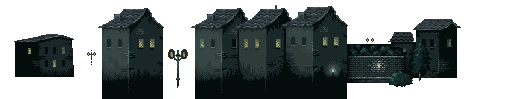
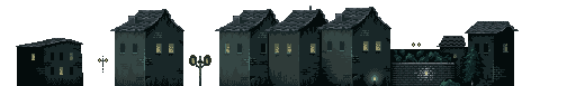
scene load from .ini

diff --git a/sources/core/gameObject.c b/sources/core/gameObject.c
@@ -22,7 +22,7 @@ const compCtor_t compCtors[] = {
     {"[graphics]\n", &Graphics}
 };
 
-gameObject_t *GameObject(core_t *core, char *config)
+gameObject_t *GameObject(core_t *core, char *name, char *config)
 {
     gameObject_t *gO = malloc(sizeof(gameObject_t));
     FILE *fp = fopen(config, "r");
@@ -43,7 +43,43 @@ gameObject_t *GameObject(core_t *core, char *config)
         for (int i = 0; i < 1; ++i)
             if (strcmp(line, compCtors[i].type) == 0)
                 gO->comps->addComp(gO->comps, compCtors[i].createComp(core, fp));
+    gO->next = NULL;
+    gO->name = strdup(name);
     return gO;
+}
+
+gameObject_t *addGameObject(core_t *core, gameObject_t *entities, char *name, char *config)
+{
+    gameObject_t *newGameObject = GameObject(core, name, config);
+    gameObject_t *tmp = entities;
+
+    if (entities == NULL)
+        return newGameObject;
+    while (tmp->next != NULL)
+        tmp = tmp->next;
+    tmp->next = newGameObject;
+    return entities;
+}
+
+gameObject_t *GameObjectsFromConfig(core_t *core, char *config)
+{
+    FILE *fp = fopen(config, "r");
+    char *line = NULL;
+    size_t len = 0;
+    tuple_t *tuple = NULL;
+    gameObject_t *entities = NULL;
+
+    if (fp == NULL) {
+        write(2, "Can't open file\n", 16);
+        return NULL;
+    }
+    while (getline(&line, &len, fp) != -1)
+        if (strcmp(line, "[entities]\n") != 0) {
+            tuple = Tuple(line);
+            entities = addGameObject(core, entities, tuple->key, tuple->value);
+            Dtr_Tuple(tuple);
+        }
+    return entities;
 }
 
 void Dtr_GameObject(gameObject_t *gO)

diff --git a/sources/scenes/intro.c b/sources/scenes/intro.c
@@ -23,15 +23,16 @@ static int update(UNUSED core_t *core)
 
 static int display(UNUSED core_t *core)
 {
-    sfRenderWindow_drawSprite(
-        core->window->window,
-        toGraphics(
-            core->curr->entities->comps->getComp(
-                core->curr->entities->comps,
-                GRAPHICS)
-            )->sprite,
-        NULL
-    );
+    gameObject_t *tmp = core->curr->entities;
+
+    while (tmp != NULL) {
+        sfRenderWindow_drawSprite(
+            core->window->window,
+            toGraphics(tmp->comps->getComp(tmp->comps, GRAPHICS))->sprite,
+            NULL
+        );
+        tmp = tmp->next;
+    }
     return 0;
 }
 
@@ -48,7 +49,7 @@ scene_t *Intro(core_t *core)
     intro->event = &event;
     intro->update = &update;
     intro->display = &display;
-    intro->entities = core->entities->getEntity(core->entities, "contents/entities/background.ini")->gameObject;
+    intro->entities = GameObjectsFromConfig(core, "contents/scenes/intro.ini");
 
     return intro;
 }

diff --git a/includes/datastructure.h b/includes/datastructure.h
@@ -16,25 +16,6 @@
     #define MICRO .microseconds / 1000000.f;
     #define UNUSED __attribute__((unused))
 
-    /* ENTITIES DICT */
-
-    struct gameObject_s;
-    struct core_s;
-
-    typedef struct entity_s {
-        char *name;
-        struct gameObject_s *gameObject;
-
-        struct entity_s *next;
-    } entity_t;
-
-    typedef struct entitiesDict_s {
-        entity_t *entities;
-
-        entity_t *(*getEntity)(struct entitiesDict_s *, char *);
-        entity_t *(*addEntity)(struct core_s *, struct entitiesDict_s *, char *);
-    } entitiesDict_t;
-
     /* SPRITE DICT */
 
     typedef struct entry_s {
@@ -102,6 +83,7 @@
     } timed_t;
 
     typedef struct gameObject_s {
+        char *name;
         compDict_t *comps;
 
         int (*event)(struct core_s *);
@@ -124,7 +106,6 @@
         window_t *window;
         timed_t *time;
         spriteDict_t *sprites;
-        entitiesDict_t *entities;
         scene_t *curr;
         scene_t *tmp;
 

diff --git a/includes/prototypes.h b/includes/prototypes.h
@@ -22,7 +22,8 @@
     timed_t *Timed(void);
     void Dtr_Timed(timed_t *);
 
-    gameObject_t *GameObject(core_t *, char *);
+    gameObject_t *GameObject(core_t *, char *, char *);
+    gameObject_t *GameObjectsFromConfig(core_t *, char *);
     void Dtr_GameObject(gameObject_t *);
 
 
@@ -40,9 +41,6 @@
 
     compDict_t *CompDict(void);
     void Dtr_CompDict(compDict_t *);
-
-    entitiesDict_t *EntitiesDict(void);
-    void Dtr_EntitiesDict(entitiesDict_t *);
 
 
     /* COMPS */

diff --git a/sources/core/core.c b/sources/core/core.c
@@ -68,9 +68,6 @@ core_t *Core(void)
         return NULL;
     core->time = Timed();
     core->sprites = SpriteDict();
-    core->entities = EntitiesDict();
-    core->entities->addEntity(core, core->entities, "contents/entities/background.ini");
-    core->entities->addEntity(core, core->entities, "contents/entities/mountains.ini");
     core->curr = Intro(core);
     return core;
 }
